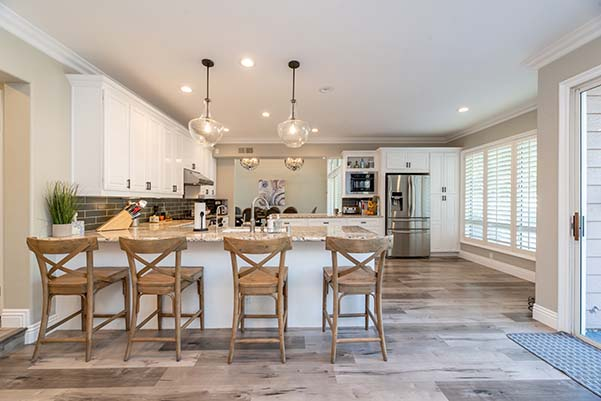
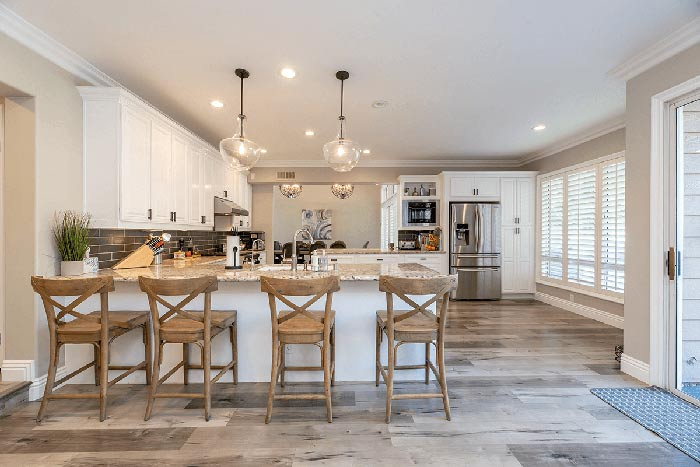
Landing page with Stock Image

diff --git a/index.html b/index.html
@@ -13,13 +13,14 @@
 
     <div class="container">
         <header>
-            <h1>Marnie Sorensen <span style="color: var(--text)">Interior Design </span></h1>
+            <h1>Marnie Sorensen 
+                <span style="color: var(--text)">Interior Design </span>
+            </h1>
         </header>
      
         <article>
-           <img class="img" src="interior.png" alt="Kitchen Interior Photo"><br>
-           <!-- Lorem ipsum dolor sit amet consectetur adipisicing elit. Tempore dolorem dignissimos necessitatibus aliquid debitis inventore maiores similique sint error repellendus amet laudantium, perferendis suscipit, expedita magni laborum commodi. Qui, optio. -->
-               </article>
+           <img class="img" src="interior.jpg" alt="Kitchen Interior Photo"><br>
+        </article>
 
         <footer>
            E-mail: <a href="mailto:marnie@marniesorensen.com">marnie@marniesorensen.com</a>
